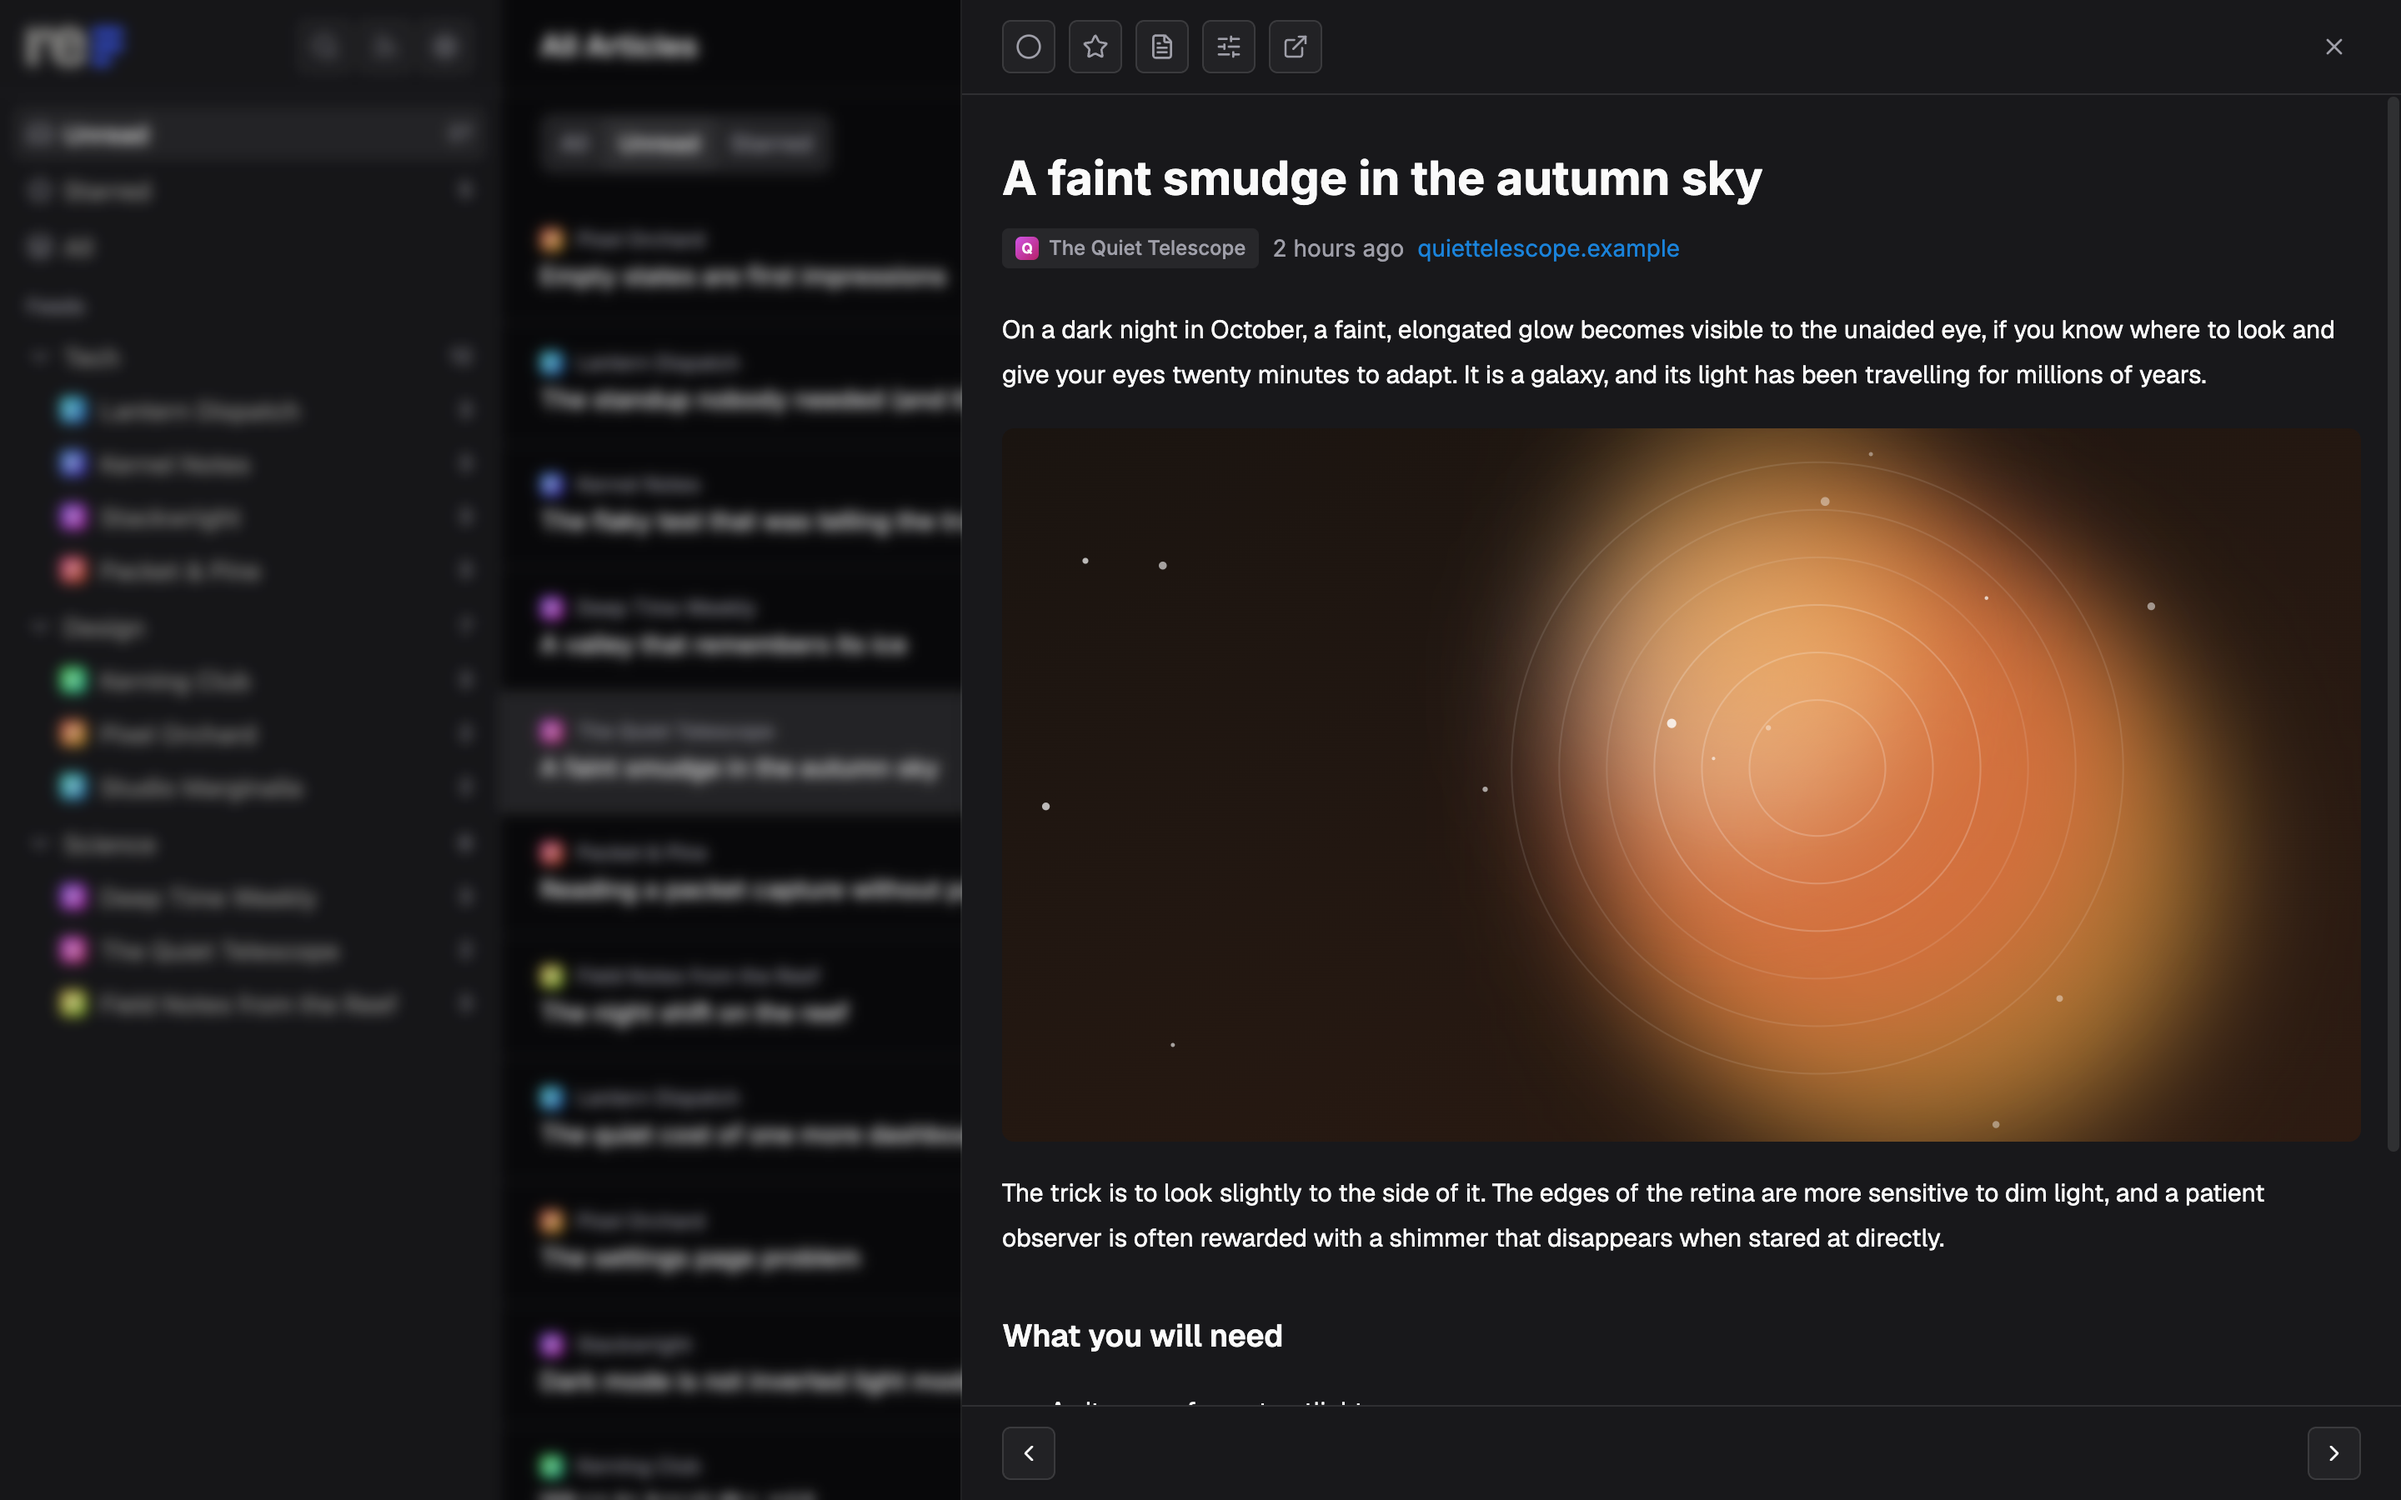
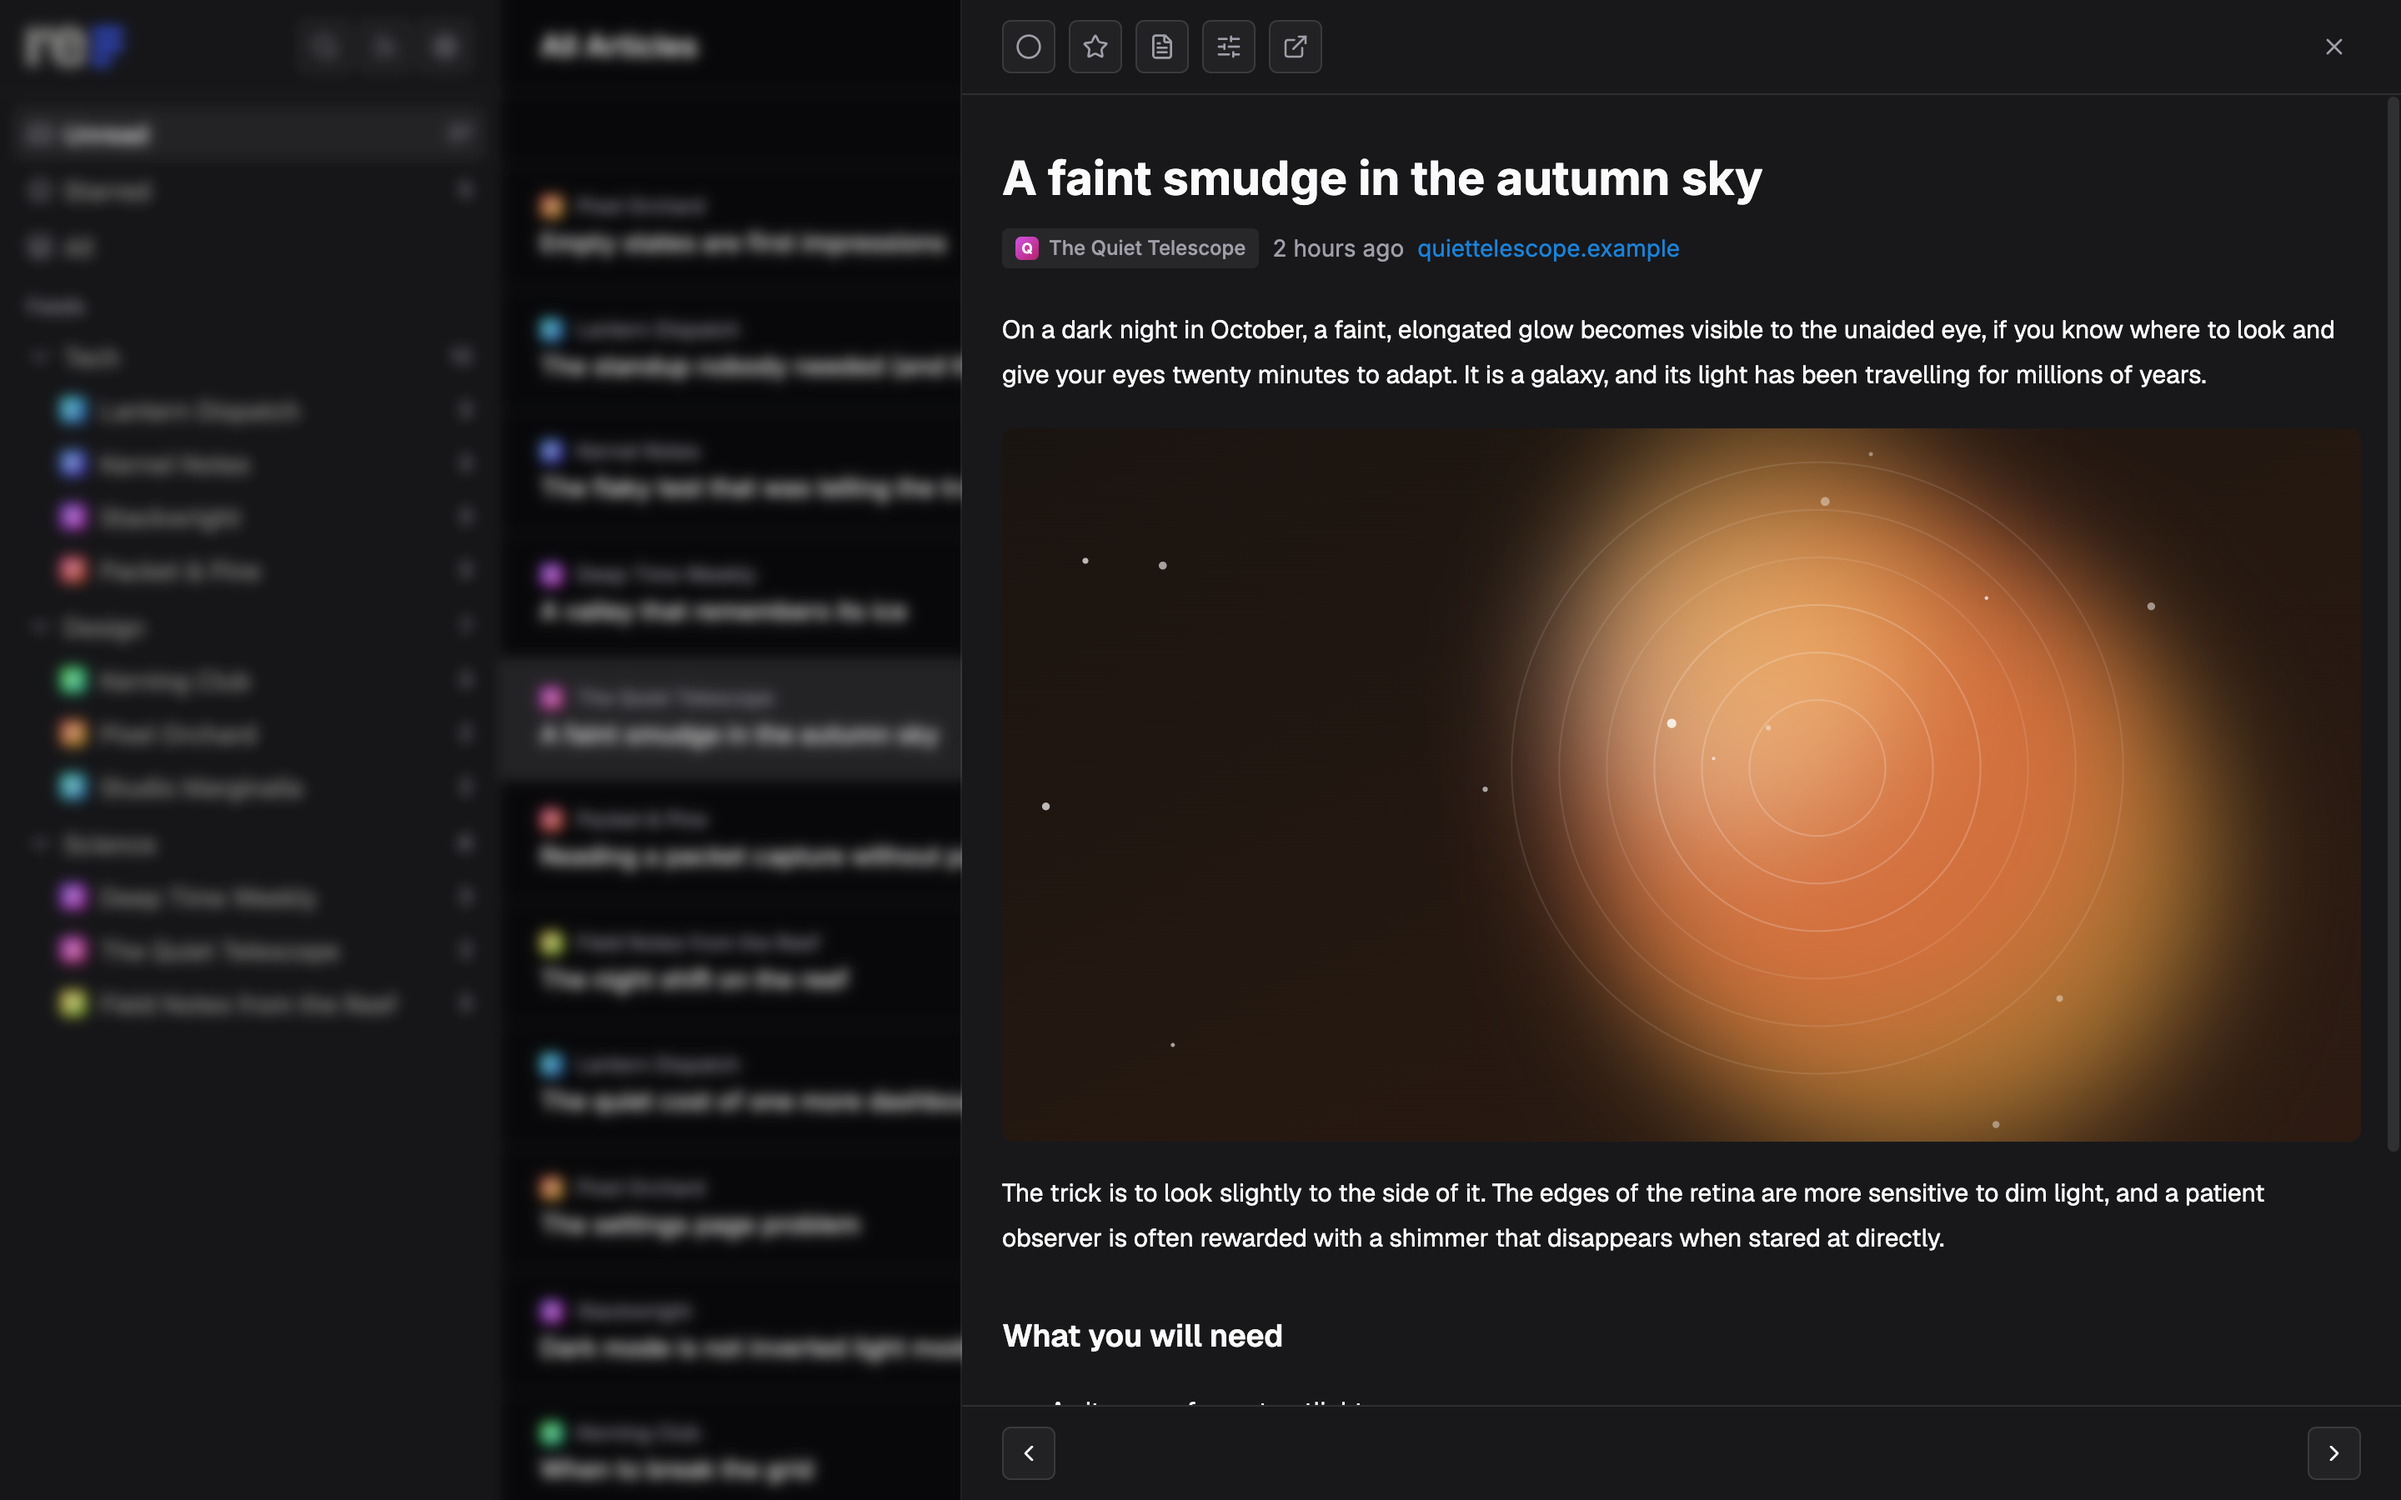
readme: reorder, mark-all scope, filter switch, new screenshots

Changed region(s): [[0.2188, 0.0622, 0.4062, 1.0]]

diff --git a/README.md b/README.md
@@ -15,12 +15,14 @@
 
 ## What refusion adds
 
-- **Two reading layouts:** Drawer opens articles over the list. Panes shows them in a third column beside it, on wider screens.
+- **Two reading layouts:** Drawer opens articles over the list. Panes shows them in a third column beside it on wide screens, and falls back to Drawer on narrower ones.
 - **Full article text:** fetch the whole article from the site on demand (`w`), or turn on "Always load full article" for a feed.
 - **YouTube embeds:** YouTube items play inside the article view. Items with only `media:description` show it as the content, with links made clickable.
 - **Search with excerpts:** results show an excerpt with the matched words in bold.
 - **Checking for new articles:** pull to refresh in the sidebar or the list, with progress per feed. `r` checks the current view, `shift+r` checks all feeds. A pill shows how many new articles arrived, and feed rows show a spinner while checking and a warning with the error when a check fails.
-- **Article list:** infinite scroll, with a load-more button as a per-device option. Rows are compact: meta line on top, title below.
+- **Your own order:** a reorder mode on the feeds page moves folders and feeds up and down with arrows. The sidebar follows it.
+- **Article list:** infinite scroll, with a load-more button as a per-device option. Rows are compact: meta line on top, title below. An icon switch under the header picks all, unread or starred.
+- **Mark all as read** covers the whole feed or folder, including articles not loaded yet.
 - **Reading comfort:** a font and text size popover in the article view. Dates can be relative ("3 hours ago") or absolute.
 - **Small things:** keyboard hints in tooltips, collapsed sidebar folders stay collapsed, settings and shortcut dialogs with a fixed header.
 
